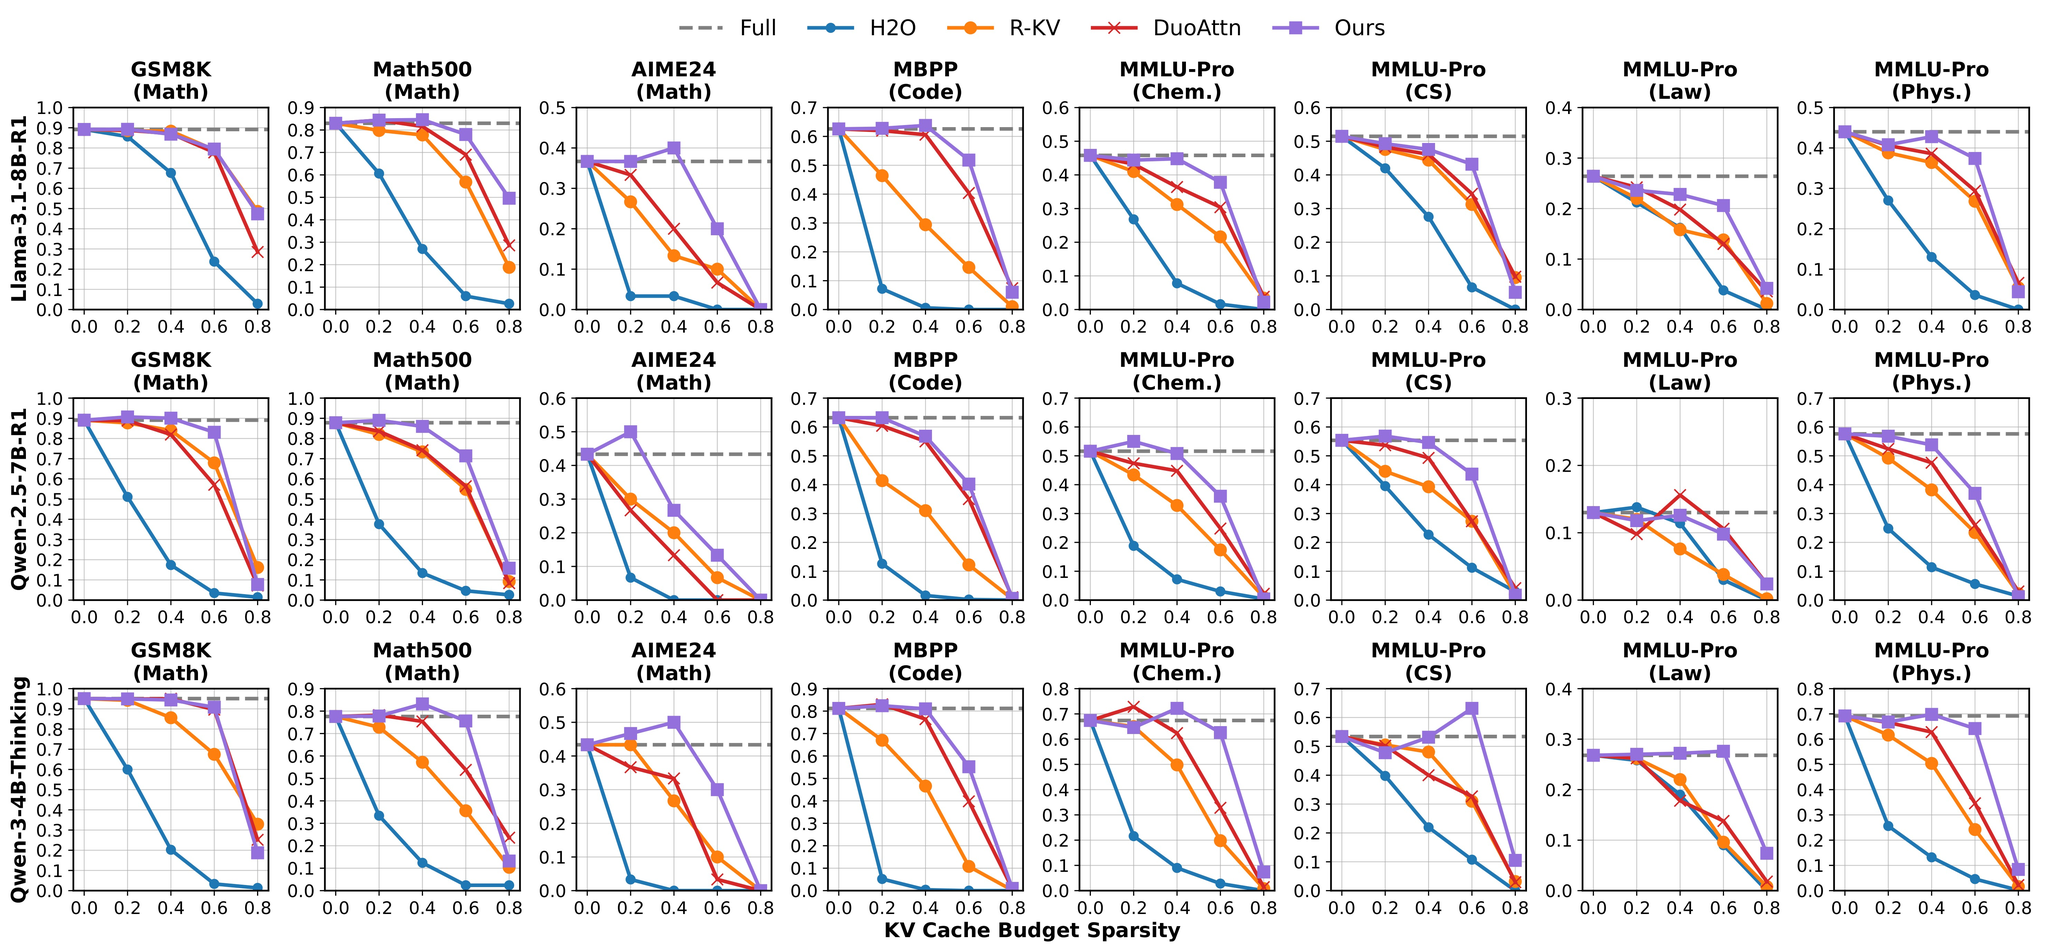
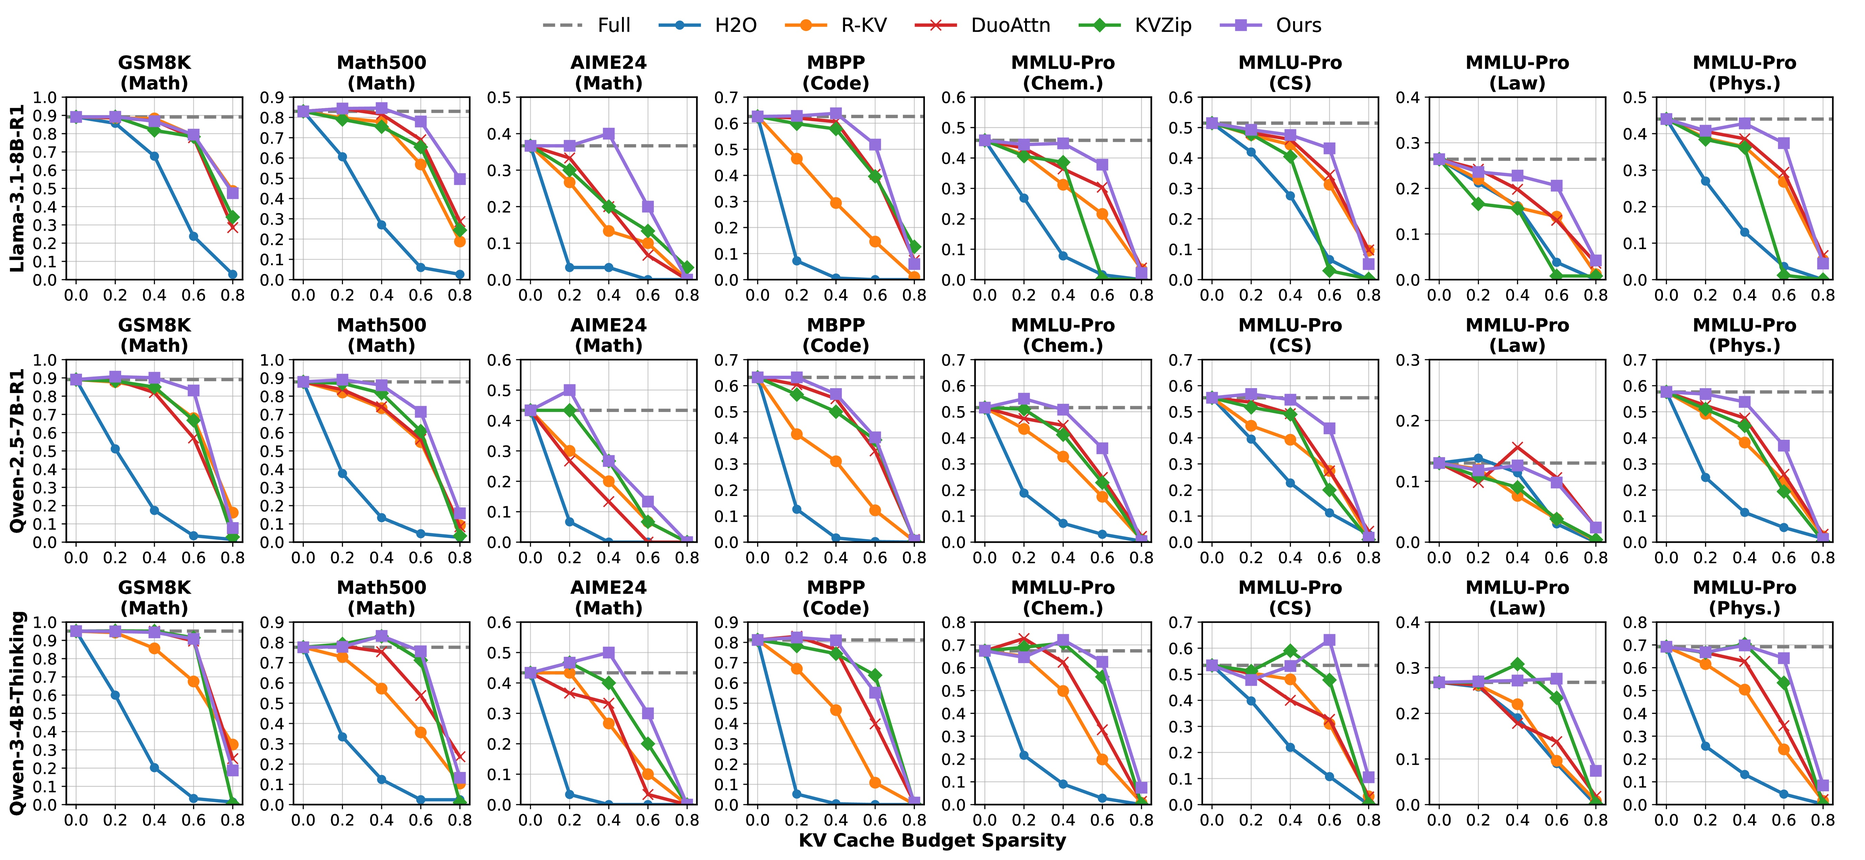
docs: update homepage to ICML 2026 camera-ready
- Abstract: 20-50% -> 20-60% cache reduction; add 2.06x end-to-end speedup
- Main result figure regenerated with new KVZip baseline
- Main Results caption: name baselines (H2O, R-KV, DuoAttention, KVZip)
- Add Inference Efficiency section (SGLang dual KV pool, speedup table)
- Add Long-Context Generalization section (LongReason 70K)
- BibTeX: arXiv -> ICML 2026 inproceedings
- Fix placeholder meta tags (og:url, twitter, keywords, description)
- News: add camera-ready release item

docs: replace near-lossless figure with camera-ready Table 1 (HTML)

The mem.png carousel slide showed the pre-camera-ready near-lossless
comparison. Camera-ready turned this into Table 1 (RLKV near-lossless
thresholds across reasoning + MMLU-Pro tasks). Reproduce it as a clean
HTML table with green/red delta coloring, consistent with the speedup
and long-context tables; remove the outdated mem.png slide.

docs: move the three result tables into the Main Results carousel

Near-Lossless, Inference Efficiency (speedup), and Long-Context tables
now rotate as carousel slides alongside the figures (right after the
main result), instead of standalone sections. Same data and captions.

docs: add sink+local window ablation table to carousel

Camera-ready tab:ablation_window (Llama-3.1-8B-R1, Math500). Added as a
carousel slide right after the training-components ablation figure, with
green cells marking results within 3 points of full attention.

docs: slow carousel autoplay to 8s for readability
[…]

diff --git a/index.html b/index.html
@@ -4,23 +4,23 @@
   <meta charset="utf-8">
   <!-- Meta tags for social media banners, these should be filled in appropriatly as they are your "business card" -->
   <!-- Replace the content tag with appropriate information -->
-  <meta name="description" content="Which Heads Matter for Reasoning? RL-Guided KV Cache Compression">
+  <meta name="description" content="RLKV (ICML 2026): RL-guided KV cache compression that discovers reasoning-critical attention heads, enabling 20-60% cache reduction with near-lossless reasoning and up to 2.06x end-to-end speedup.">
   <meta property="og:title" content="Which Heads Matter for Reasoning? RL-Guided KV Cache Compression"/>
-  <meta property="og:description" content="Which Heads Matter for Reasoning? RL-Guided KV Cache Compression"/>
-  <meta property="og:url" content="URL OF THE WEBSITE"/>
+  <meta property="og:description" content="RLKV (ICML 2026): RL-guided KV cache compression that discovers reasoning-critical attention heads, enabling 20-60% cache reduction with near-lossless reasoning and up to 2.06x end-to-end speedup."/>
+  <meta property="og:url" content="https://kurt232.github.io/RLKV"/>
   <!-- Path to banner image, should be in the path listed below. Optimal dimenssions are 1200X630-->
-  <meta property="og:image" content="static/image/your_banner_image.png" />
+  <meta property="og:image" content="static/images/method.jpg" />
   <meta property="og:image:width" content="1200"/>
   <meta property="og:image:height" content="630"/>
 
 
-  <meta name="twitter:title" content="TWITTER BANNER TITLE META TAG">
-  <meta name="twitter:description" content="TWITTER BANNER DESCRIPTION META TAG">
+  <meta name="twitter:title" content="Which Heads Matter for Reasoning? RL-Guided KV Cache Compression">
+  <meta name="twitter:description" content="RLKV uses reinforcement learning to discover reasoning-critical attention heads, enabling 20-60% KV cache reduction with near-lossless performance and up to 2.06x end-to-end speedup. ICML 2026.">
   <!-- Path to banner image, should be in the path listed below. Optimal dimenssions are 1200X600-->
-  <meta name="twitter:image" content="static/images/your_twitter_banner_image.png">
+  <meta name="twitter:image" content="static/images/method.jpg">
   <meta name="twitter:card" content="summary_large_image">
   <!-- Keywords for your paper to be indexed by-->
-  <meta name="keywords" content="KEYWORDS SHOULD BE PLACED HERE">
+  <meta name="keywords" content="KV cache compression, reasoning LLM, reinforcement learning, attention heads, chain-of-thought, efficient inference, GRPO, ICML 2026">
   <meta name="viewport" content="width=device-width, initial-scale=1">
 
 
@@ -198,6 +198,7 @@
         <h2 class="title is-3 has-text-centered">News</h2>
         <div class="content">
           <ul>
+            <li><b>2026/06</b>: The camera-ready version is now available, with SGLang end-to-end speedup and long-context generalization results.</li>
             <li><b>2026/05</b>: RLKV is accepted to <a href="https://icml.cc/Conferences/2026" target="_blank">ICML 2026</a>! See you in Seoul!</li>
             <li><b>2026/04</b>: RLKV is supported in SGLang inference (see <a href="https://github.com/kurt232/RLKV#sglang-inference" target="_blank">code</a>).</li>
             <li><b>2026/03</b>: RLKV is presented at the <a href="https://latent-implicit-thinking.github.io/" target="_blank">LIT @ ICLR 2026 workshop</a> (Latent &amp; Implicit Thinking &mdash; Going Beyond CoT Reasoning).</li>
@@ -223,7 +224,7 @@ Existing token-dropping methods directly disrupt reasoning chains by removing in
 However, no existing method can identify which attention heads genuinely maintain reasoning consistency and control generation termination.
 To address this, we propose RLKV, which uses reinforcement learning as a probe to discover which heads contribute to reasoning quality by directly optimizing their cache usage against actual generation outcomes.
 This discovery naturally leads to an efficient compression strategy: we allocate full KV cache to reasoning-critical heads while aggressively compressing others with constant-size KV cache.
-Experiments reveal that a fraction of heads proves essential for reasoning, enabling <b>20-50%</b> cache reduction with near-lossless performance across diverse tasks and models.
+Experiments reveal that a fraction of heads proves essential for reasoning, enabling <b>20-60%</b> cache reduction with near-lossless performance across diverse tasks and models, and up to <b>2.06&times;</b> end-to-end speedup at 60% reduction.
           </p>
         </div>
       </div>
@@ -232,9 +233,35 @@ Experiments reveal that a fraction of heads proves essential for reasoning, enab
 </section>
 <!-- End paper abstract -->
 
+<!-- Motivation -->
 <section class="section">
   <div class="container is-max-desktop has-text-centered">
-    
+
+    <!-- Title -->
+    <h2 class="title is-3">Motivation: Which Heads Matter for Reasoning?</h2>
+
+    <!-- Text Content -->
+    <div class="content has-text-justified">
+      <p>
+Existing KV cache compression follows one of two strategies <b>(a)</b>: <b>token-dropping</b> methods evict less important tokens from every head's cache, while <b>head-reallocation</b> methods keep a full cache for a few critical heads and aggressively compress the rest. Both work well on instruct models but <b>degrade sharply on reasoning models</b> <b>(b, left)</b>, where extended chain-of-thought makes the KV cache the carrier of reasoning state rather than a mere optimization. The two strategies even fail differently <b>(b, right)</b>: token-dropping (R-KV) collapses into <i>repetitive</i> loops, whereas head-reallocation (DuoAttention) produces <i>over-extended</i> CoT that exhausts the length budget without reaching a solution. This raises our central question: <b>which attention heads genuinely matter for reasoning?</b>
+      </p>
+    </div>
+
+    <!-- Image Content -->
+    <div class="is-flex is-justify-content-center">
+      <figure class="image" style="display: flex; justify-content: center; align-items: center; margin: 0 auto;">
+        <img src="static/images/motivation.png" alt="Two KV cache compression strategies and their failure modes on reasoning models"
+             style="border-radius: 12px; box-shadow: 0px 4px 10px rgba(0,0,0,0.1); max-width: 100%;">
+      </figure>
+    </div>
+
+  </div>
+</section>
+<!-- End Motivation -->
+
+<section class="section">
+  <div class="container is-max-desktop has-text-centered">
+
     <!-- Title -->
     <h2 class="title is-3">Overview of RLKV</h2>
 
@@ -304,17 +331,134 @@ Our method uses RL as a probe to identify reasoning-critical heads. The RL pipel
                style="border-radius: 12px; box-shadow: 0px 4px 10px rgba(0,0,0,0.1); max-width: 95%;">
         </figure>
         <h2 class="subtitle has-text-centered">
-<b>Main Results.</b> RLKV (<b>Ours</b>) achieves a better accuracy&ndash;efficiency trade-off across three reasoning models (Llama-3.1-8B-R1, Qwen-2.5-7B-R1, Qwen-3-4B-Thinking) over four reasoning benchmarks (GSM8K, MATH, AIME24, MBPP) and four MMLU-Pro subsets (Chemistry, Computer Science, Law, Physics) at sparsity levels 0.2, 0.4, 0.6, and 0.8. RLKV consistently outperforms all baselines, with particularly strong advantages at high sparsity where competing methods degrade substantially.
+<b>Main Results.</b> RLKV (<b>Ours</b>) achieves a better accuracy&ndash;efficiency trade-off across three reasoning models (Llama-3.1-8B-R1, Qwen-2.5-7B-R1, Qwen-3-4B-Thinking) over four reasoning benchmarks (GSM8K, MATH, AIME24, MBPP) and four MMLU-Pro subsets (Chemistry, Computer Science, Law, Physics) at sparsity levels 0.2, 0.4, 0.6, and 0.8. RLKV consistently outperforms all baselines (H<sub>2</sub>O, R-KV, DuoAttention, and KVZip) by up to <b>20%</b> &mdash; on some tasks even surpassing the full KV cache baseline &mdash; with particularly strong advantages at high sparsity where competing methods degrade substantially.
         </h2>
       </div>
       <div class="item" style="min-height: 100%; display: flex; flex-direction: column; justify-content: center;">
-        <figure class="image" style="display: flex; justify-content: center; align-items: center; margin: 2rem auto;">
-          <img src="static/images/mem.png" alt="lossless performance" 
-               style="border-radius: 12px; box-shadow: 0px 4px 10px rgba(0,0,0,0.1); max-width: 95%;">
-        </figure>
+        <div class="table-container" style="width: 100%; max-width: 900px; margin: 0 auto;">
+          <table class="table is-bordered is-narrow is-hoverable is-fullwidth has-text-centered" style="font-size: 0.8rem; margin-bottom: 0;">
+            <thead>
+              <tr>
+                <th class="has-text-centered">Benchmark</th>
+                <th class="has-text-centered">Llama-3.1-8B-R1</th>
+                <th class="has-text-centered">Qwen-2.5-7B-R1</th>
+                <th class="has-text-centered">Qwen-3-4B-Thinking</th>
+              </tr>
+            </thead>
+            <tbody>
+              <tr><td colspan="4" class="has-text-left has-background-light"><i>Math / Code</i></td></tr>
+              <tr>
+                <td>GSM8K</td>
+                <td style="background:#ffe6e6;">86.8 <small>(&minus;2.4, sp=0.4)</small></td>
+                <td style="background:#e6ffe6;">90.1 <small>(+1.0, sp=0.4)</small></td>
+                <td style="background:#ffe6e6;">94.4 <small>(&minus;0.7, sp=0.4)</small></td>
+              </tr>
+              <tr>
+                <td>Math500</td>
+                <td style="background:#e6ffe6;">84.6 <small>(+1.6, sp=0.4)</small></td>
+                <td style="background:#ffe6e6;">86.0 <small>(&minus;1.8, sp=0.4)</small></td>
+                <td style="background:#ffe6e6;">75.6 <small>(&minus;2.0, sp=0.6)</small></td>
+              </tr>
+              <tr>
+                <td>AIME24</td>
+                <td style="background:#e6ffe6;">40.0 <small>(+3.3, sp=0.4)</small></td>
+                <td style="background:#e6ffe6;">50.0 <small>(+6.7, sp=0.2)</small></td>
+                <td style="background:#e6ffe6;">50.0 <small>(+6.7, sp=0.4)</small></td>
+              </tr>
+              <tr>
+                <td>MBPP</td>
+                <td style="background:#e6ffe6;">63.8 <small>(+1.2, sp=0.4)</small></td>
+                <td style="background:#e6ffe6;">63.2 <small>(+0.0, sp=0.2)</small></td>
+                <td style="background:#ffe6e6;">81.0 <small>(&minus;0.2, sp=0.4)</small></td>
+              </tr>
+              <tr><td colspan="4" class="has-text-left has-background-light"><i>MMLU-Pro</i></td></tr>
+              <tr>
+                <td>Chem.</td>
+                <td style="background:#ffe6e6;">40.0 <small>(&minus;0.2, sp=0.4)</small></td>
+                <td style="background:#e6ffe6;">53.2 <small>(+2.2, sp=0.4)</small></td>
+                <td style="background:#e6ffe6;">74.2 <small>(+5.8, sp=0.4)</small></td>
+              </tr>
+              <tr>
+                <td>CS</td>
+                <td style="background:#e6ffe6;">47.8 <small>(+0.7, sp=0.2)</small></td>
+                <td style="background:#ffe6e6;">50.7 <small>(&minus;2.7, sp=0.5)</small></td>
+                <td style="background:#e6ffe6;">60.7 <small>(+7.0, sp=0.6)</small></td>
+              </tr>
+              <tr>
+                <td>Law</td>
+                <td style="background:#ffe6e6;">21.8 <small>(&minus;1.2, sp=0.6)</small></td>
+                <td style="background:#e6ffe6;">13.0 <small>(+0.2, sp=0.5)</small></td>
+                <td style="background:#e6ffe6;">32.0 <small>(+6.0, sp=0.6)</small></td>
+              </tr>
+              <tr>
+                <td>Phys.</td>
+                <td style="background:#ffe6e6;">40.0 <small>(&minus;1.0, sp=0.4)</small></td>
+                <td style="background:#ffe6e6;">51.2 <small>(&minus;2.4, sp=0.4)</small></td>
+                <td style="background:#e6ffe6;">71.8 <small>(+2.0, sp=0.4)</small></td>
+              </tr>
+            </tbody>
+          </table>
+        </div>
         <h2 class="subtitle has-text-centered">
-<b>Near lossless performance achieved by RLKV across four reasoning benchmarks.</b> The lossless sparsity threshold varies across benchmarks and models, capturing how task difficulty, type, and model itself jointly affect compression sensitivity. RLKV exhibits the smallest performance degradation.
-      </h2>
+<b>Near-lossless compression.</b> RLKV achieves <b>20&ndash;60% KV cache reduction</b> with near-lossless performance across reasoning and knowledge tasks. Each cell is RLKV's accuracy at its near-lossless sparsity (sp), with the change from full attention in parentheses; <span style="background:#e6ffe6; padding:0 4px;">green</span> gains over full attention, <span style="background:#ffe6e6; padding:0 4px;">red</span> loses.
+       </h2>
+      </div>
+      <div class="item" style="min-height: 100%; display: flex; flex-direction: column; justify-content: center;">
+        <div class="table-container" style="width: 100%; max-width: 820px; margin: 0 auto;">
+          <table class="table is-bordered is-narrow is-hoverable is-fullwidth has-text-centered" style="font-size: 0.9rem; margin-bottom: 0;">
+            <thead>
+              <tr>
+                <th class="has-text-centered">Sparsity</th>
+                <th class="has-text-centered">Concur.</th>
+                <th class="has-text-centered">Time (s)</th>
+                <th class="has-text-centered">Acc. (%)</th>
+                <th class="has-text-centered">Thpt. (tok/s)</th>
+                <th class="has-text-centered">Speedup</th>
+                <th class="has-text-centered">Theoretical</th>
+              </tr>
+            </thead>
+            <tbody>
+              <tr><td>Full</td><td>150</td><td>1,036</td><td>79.4</td><td>1,500</td><td>1.00&times;</td><td>&ndash;</td></tr>
+              <tr><td>0.2</td><td>200</td><td>874</td><td>78.6</td><td>1,758</td><td><b>1.19&times;</b></td><td>1.24&times;</td></tr>
+              <tr><td>0.4</td><td>250</td><td>666</td><td>79.6</td><td>2,185</td><td><b>1.56&times;</b></td><td>1.64&times;</td></tr>
+              <tr><td>0.5</td><td>300</td><td>574</td><td>77.6</td><td>2,553</td><td><b>1.80&times;</b></td><td>1.95&times;</td></tr>
+              <tr><td>0.6</td><td>375</td><td>504</td><td>73.8</td><td>2,941</td><td><b>2.06&times;</b></td><td>2.40&times;</td></tr>
+            </tbody>
+          </table>
+        </div>
+        <h2 class="subtitle has-text-centered">
+<b>Inference efficiency (SGLang).</b> A dual KV pool &mdash; a paged cache for full-attention heads and a fixed-size sink+local buffer for compressed heads &mdash; frees memory back into the full pool to raise concurrency, yielding <b>end-to-end speedup that grows with sparsity</b>, up to <b>2.06&times;</b> at 60% reduction (Llama-3.1-8B-R1, Math500, single A100 40G).
+       </h2>
+      </div>
+      <div class="item" style="min-height: 100%; display: flex; flex-direction: column; justify-content: center;">
+        <div class="table-container" style="width: 100%; max-width: 720px; margin: 0 auto;">
+          <table class="table is-bordered is-narrow is-hoverable is-fullwidth has-text-centered" style="font-size: 0.9rem; margin-bottom: 0;">
+            <thead>
+              <tr>
+                <th class="has-text-centered">Method</th>
+                <th class="has-text-centered">sp&nbsp;=&nbsp;0.2</th>
+                <th class="has-text-centered">sp&nbsp;=&nbsp;0.4</th>
+                <th class="has-text-centered">sp&nbsp;=&nbsp;0.6</th>
+                <th class="has-text-centered">sp&nbsp;=&nbsp;0.8</th>
+              </tr>
+            </thead>
+            <tbody>
+              <tr><td colspan="5" class="has-text-left has-background-light"><i>Llama-3.1-8B-R1</i> &mdash; Full: 49.25</td></tr>
+              <tr><td>R-KV</td><td>0.0</td><td>0.0</td><td>0.0</td><td>0.0</td></tr>
+              <tr><td>DuoAttention</td><td>49.5</td><td>48.75</td><td>35.25</td><td>1.5</td></tr>
+              <tr><td>KVZip</td><td>48.0</td><td>49.0</td><td>36.0</td><td>4.75</td></tr>
+              <tr><td><b>RLKV (Ours)</b></td><td><b>50.5</b></td><td><b>52.5</b></td><td><b>45.25</b></td><td><b>15.0</b></td></tr>
+              <tr><td colspan="5" class="has-text-left has-background-light"><i>Qwen-3-4B-Thinking</i> &mdash; Full: 70.25</td></tr>
+              <tr><td>R-KV</td><td>1.25</td><td>0.75</td><td>0.5</td><td>0.5</td></tr>
+              <tr><td>DuoAttention</td><td>69.75</td><td>63.25</td><td>55.5</td><td>1.0</td></tr>
+              <tr><td>KVZip</td><td><b>71.25</b></td><td>67.25</td><td>53.0</td><td>0.25</td></tr>
+              <tr><td><b>RLKV (Ours)</b></td><td>68.5</td><td><b>68.25</b></td><td><b>58.25</b></td><td><b>3.0</b></td></tr>
+            </tbody>
+          </table>
+        </div>
+        <h2 class="subtitle has-text-centered">
+<b>Long-context generalization.</b> Trained with rollouts capped at <b>8K tokens</b>, RLKV transfers cleanly to <b>70K context</b> on LongReason (64K-input subset), outperforming all baselines with the gap widening at higher sparsity. (H<sub>2</sub>O omitted: out of memory; Qwen-2.5-7B-R1 excluded: full-attention accuracy 0.5%.)
+       </h2>
       </div>
       <div class="item" style="min-height: 100%; display: flex; flex-direction: column; justify-content: center;">
         <figure class="image" style="display: flex; justify-content: center; align-items: center; margin: 2rem auto;">
@@ -323,6 +467,48 @@ Our method uses RL as a probe to identify reasoning-critical heads. The RL pipel
         </figure>
         <h2 class="subtitle has-text-centered">
 <b>Ablation of key components in RLKV training</b> (Qwen-2.5-7B-R1 on Math500). <i>Left</i>: adaptive penalty weighting stabilizes training under sparsity, breaking the vicious cycle between sparse rewards and dense L1 penalty. <i>Middle</i>: self-distillation sampling yields more stable reward signals than training on overly difficult problems. <i>Right</i>: a moderate L1 penalty weight &beta;=0.001 provides the best sparsity&ndash;performance trade-off.
+       </h2>
+      </div>
+      <div class="item" style="min-height: 100%; display: flex; flex-direction: column; justify-content: center;">
+        <div class="table-container" style="width: 100%; max-width: 760px; margin: 0 auto;">
+          <table class="table is-bordered is-narrow is-hoverable is-fullwidth has-text-centered" style="font-size: 0.9rem; margin-bottom: 0;">
+            <thead>
+              <tr>
+                <th class="has-text-centered">Sink + Local</th>
+                <th class="has-text-centered">sp&nbsp;=&nbsp;0.2</th>
+                <th class="has-text-centered">sp&nbsp;=&nbsp;0.4</th>
+                <th class="has-text-centered">sp&nbsp;=&nbsp;0.6</th>
+                <th class="has-text-centered">sp&nbsp;=&nbsp;0.8</th>
+              </tr>
+            </thead>
+            <tbody>
+              <tr><td>Full</td><td colspan="4" class="has-background-light">80.8</td></tr>
+              <tr>
+                <td>16 + 64</td>
+                <td style="background:#e6ffe6;">78.2 <small>(&minus;2.6)</small></td>
+                <td style="background:#e6ffe6;">79.4 <small>(&minus;1.4)</small></td>
+                <td style="background:#ffe6e6;">75.0 <small>(&minus;5.8)</small></td>
+                <td style="background:#ffe6e6;">40.6 <small>(&minus;40.2)</small></td>
+              </tr>
+              <tr>
+                <td>32 + 128</td>
+                <td style="background:#e6ffe6;">82.2 <small>(+1.4)</small></td>
+                <td style="background:#e6ffe6;">81.8 <small>(+1.0)</small></td>
+                <td style="background:#e6ffe6;">80.4 <small>(&minus;0.4)</small></td>
+                <td style="background:#ffe6e6;">55.6 <small>(&minus;25.2)</small></td>
+              </tr>
+              <tr>
+                <td>64 + 256</td>
+                <td style="background:#e6ffe6;">79.8 <small>(&minus;1.0)</small></td>
+                <td style="background:#e6ffe6;">80.2 <small>(&minus;0.6)</small></td>
+                <td style="background:#e6ffe6;">79.2 <small>(&minus;1.6)</small></td>
+                <td style="background:#ffe6e6;">64.6 <small>(&minus;16.2)</small></td>
+              </tr>
+            </tbody>
+          </table>
+        </div>
+        <h2 class="subtitle has-text-centered">
+<b>Sink + local window ablation</b> (Llama-3.1-8B-R1, Math500, SGLang). Each cell is accuracy with the change from the full-attention baseline (80.8) in parentheses; <span style="background:#e6ffe6; padding:0 4px;">green</span> cells are within 3 points of full. At low sparsity RLKV is robust to the window choice; at high sparsity, larger windows extend the lossless range and soften the degradation cliff, at only a marginal per-head KV cost.
        </h2>
       </div>
       <div class="item" style="min-height: 100%; display: flex; flex-direction: column; justify-content: center;">
@@ -392,11 +578,11 @@ Our method uses RL as a probe to identify reasoning-critical heads. The RL pipel
   <section class="section" id="BibTeX">
     <div class="container is-max-desktop content">
       <h2 class="title">BibTeX</h2>
-      <pre><code>@article{du2025whichheads,
+      <pre><code>@inproceedings{du2026whichheads,
   title={Which Heads Matter for Reasoning? RL-Guided KV Cache Compression},
   author={Du, Wenjie and Jiang, Li and Tao, Keda and Liu, Xue and Wang, Huan},
-  journal={arXiv preprint arXiv:2510.08525},
-  year={2025}
+  booktitle={Proceedings of the 43rd International Conference on Machine Learning (ICML)},
+  year={2026}
 }</code></pre>
     </div>
 </section>

diff --git a/static/js/index.js b/static/js/index.js
@@ -10,7 +10,7 @@ $(document).ready(function() {
 			loop: true,
 			infinite: true,
 			autoplay: true,
-			autoplaySpeed: 5000,
+			autoplaySpeed: 8000,
     }
 
 		// Initialize all div with carousel class
